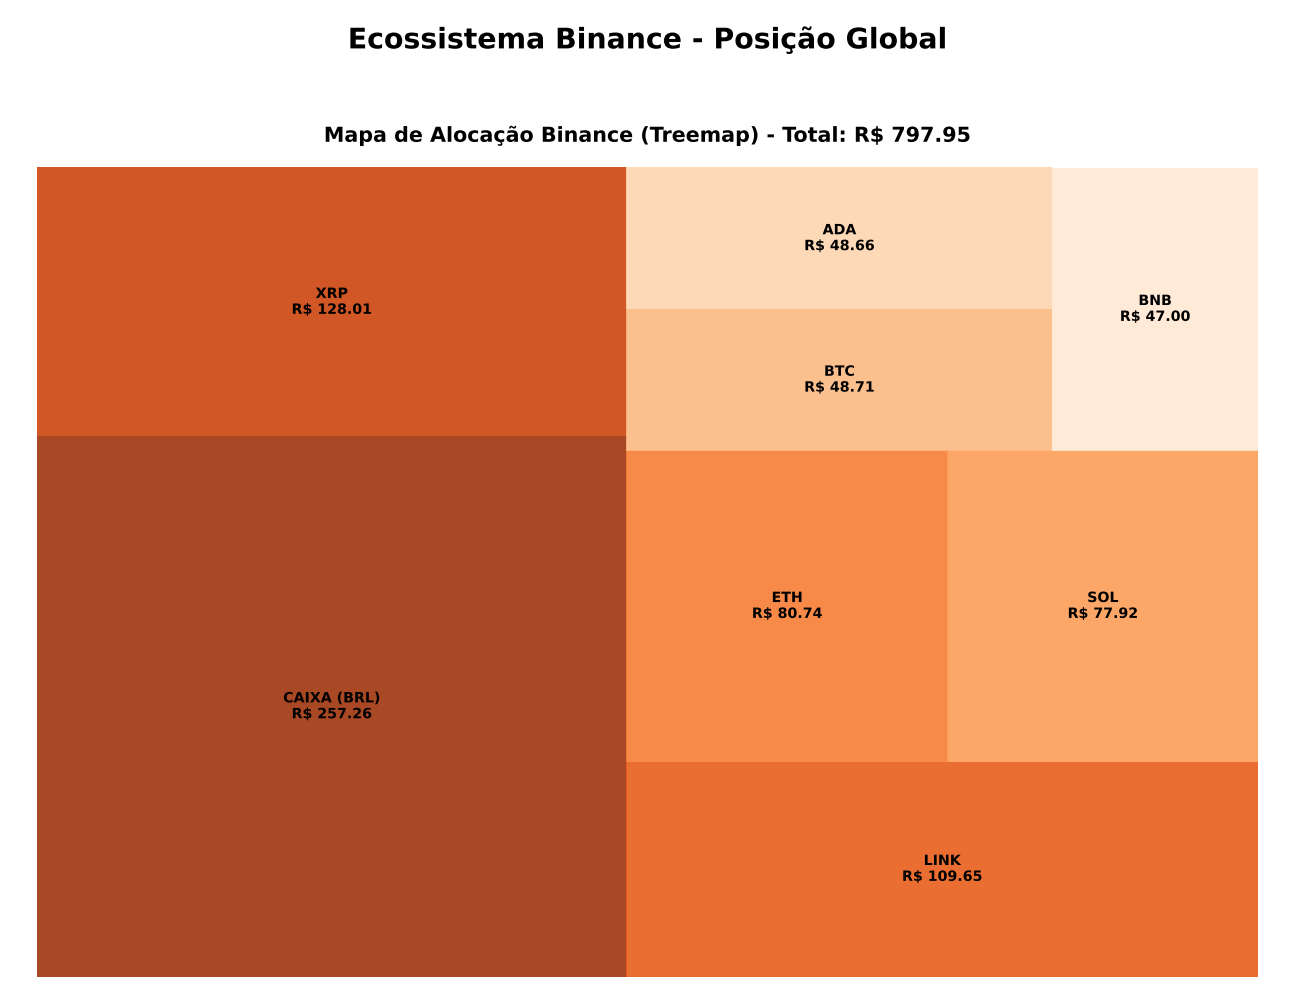
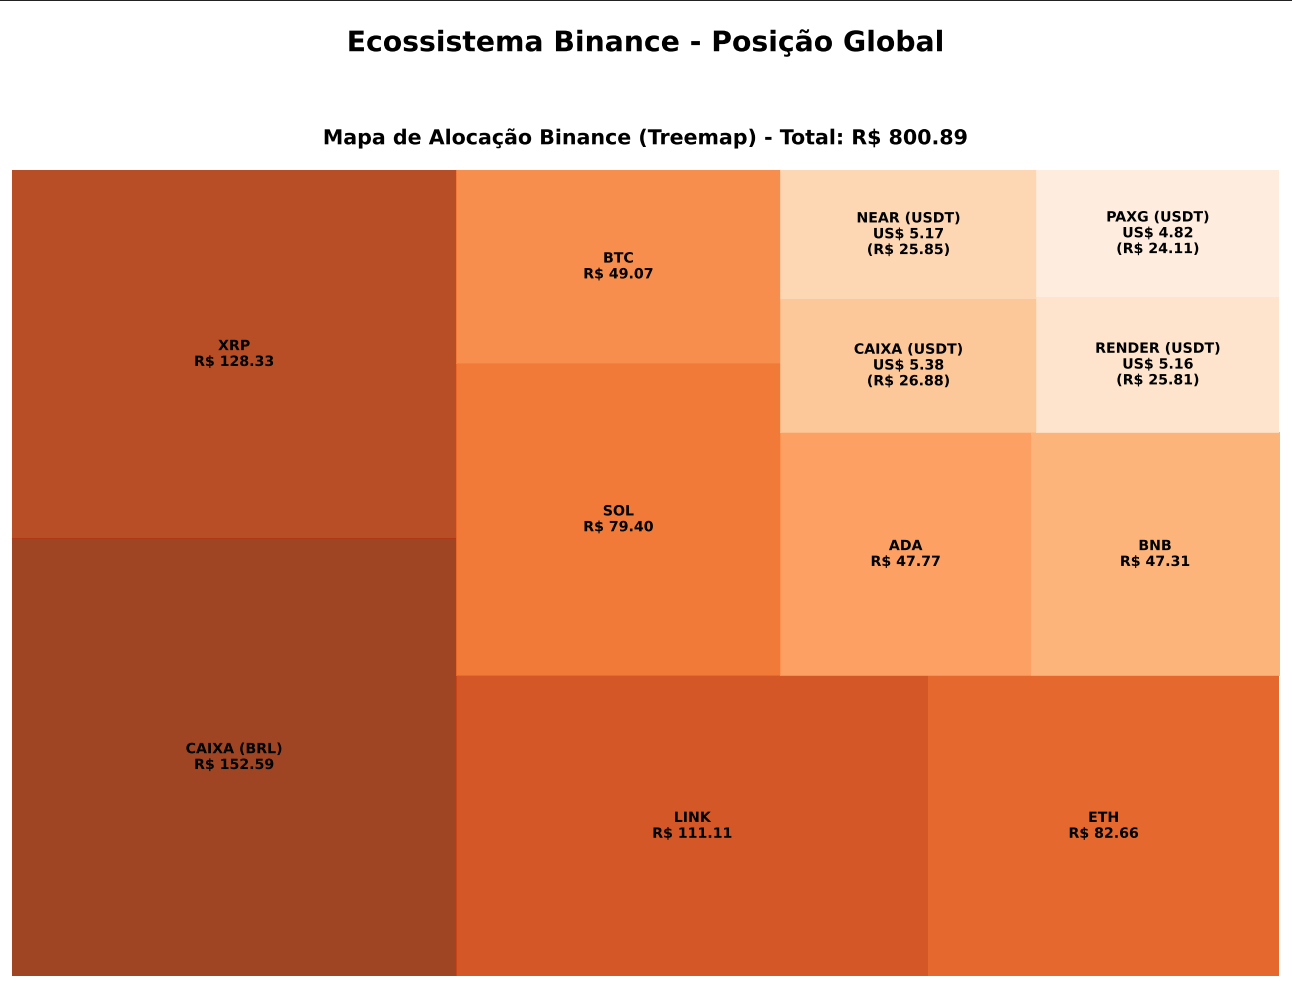
feat: adiciona treemap atualizado com saldo de caixa multi-moedas e dupla conversao

diff --git a/README.md b/README.md
@@ -26,24 +26,31 @@ O ecossistema é otimizado para capturar volatilidade de curto prazo **(Gatilhos
 
 > **Governança Ativa:** Os botões interativos permitem que o usuário ignore ou acate o "Veredito" da IA, decidindo raspar os lucros de uma operação (Vender) ou fechar a análise imediatamente.
 
+## 🔍 Gatilhos Manuais e Análise sob Demanda (Suporte USDT)
+Além do monitoramento autônomo de 15 minutos, o sistema permite invocar a Inteligência Artificial a qualquer momento via Telegram. O pipeline possui suporte nativo a pareamentos em Dólar (USDT), gerando o dossiê quantitativo/fundamentalista e permitindo a execução imediata da ordem diretamente no chat.
+
+| 1. Dossiê IA Sob Demanda (USDT) | 2. Execução Interativa de Compra |
+| :---: | :---: |
+| ![Análise NEAR](img/gatilho_dolar.jpeg) | ![Execução NEAR](img/gatilho_dolar2.jpeg) |
+
 ## 📊 Master Dashboard Institucional e Deep Dive (Automático)
 O robô mantém vigilância constante em duas frentes simultâneas:
 1. **Loop Proativo (15 min):** Varredura caçando oportunidades sensíveis de *Swing Trade* (3%).
 2. **Boletim Executivo (30 min):** O robô gera um **Relatório PDF Multi-page** autônomo, enviado via Telegram, contendo o Treemap de alocação, DRE Analítico ordenado por lucro real e o Deep Dive técnico das Top moedas.
 
-### 1. Visão Global e DRE Analítico
-Consolidação da alocação global em degradê de volume financeiro e status de posições com formatação condicional baseada no PnL Real.
+### 1. Visão Global e DRE Analítico (Exposição Cambial)
+Consolidação da alocação global suportando portfólios mistos. O **Treemap de Alocação** reflete a exposição real do usuário, isolando graficamente o **Caixa Disponível em BRL e USDT**, além de exibir a dupla conversão (US$ e R$) para ativos pareados em Tether. O DRE possui formatação condicional automática baseada no PnL Real.
 
-| Mapa de Alocação (Treemap) | DRE Dinâmico (Ordenado por Lucro) |
+| Mapa de Alocação (Multi-Moedas) | DRE Dinâmico (Ordenado por Lucro) |
 | :---: | :---: |
-| ![Treemap](img/relatorio_cripto2.png) | ![DRE](img/DRE_cripto.png) |
+| ![Treemap](img/relatorio_cripto2.png) | ![DRE Dólar](img/der_com_dolar.jpeg) |
 
 ### 2. Deep Dive Técnico (Top Performers)
 Geração de lâminas detalhadas para os ativos com melhor performance na carteira, destacando Ação de Preço, cruzamento de PM, MACD, RSI e **Regressão Linear Preditiva (30 dias)** em evidência.
 
-| Ação de Preço e Regressão Linear | Indicadores Técnicos (MACD / RSI) |
-| :---: | :---: |
-| ![Preço e Regressão](img/top_performance_1.png) | ![Indicadores](img/top_performance_2.png) |
+| Ação de Preço, Posição Atual e Regressão Linear |
+| :---: |
+| ![Gráfico Dólar](img/exemplo_dolar_grafico.jpeg) |
 
 ## 🖥 Monitoramento 360º (Docker)
 Infraestrutura conteinerizada (`PYTHONUNBUFFERED=1`) com blindagem anti-crash.
@@ -56,9 +63,12 @@ Infraestrutura conteinerizada (`PYTHONUNBUFFERED=1`) com blindagem anti-crash.
 
 ## 📈 Roadmap de Evolução (Concluído)
 
-- [x] **Comando de Consulta Rápida:** Dashboard instantâneo para cálculo de PnL (Lucro/Prejuízo) em tempo real de todos os ativos da Binance via Telegram.
+- [x] **Comando de Consulta Rápida:** Dashboard instantâneo para cálculo de PnL em tempo real via Telegram.
 - [x] **Integração Global (Master Dashboard V4.1):** Unificação dos dados com a criação de gráficos automáticos Multi-page em PDF.
-- [x] **DRE Dinâmico e Viés Preditivo:** Implementação de regressão linear para 30 dias com cone de projeção e ordenação de ativos por maior lucro líquido em Reais.
+- [x] **DRE Dinâmico e Viés Preditivo:** Implementação de regressão linear para 30 dias com cone de projeção e ordenação de ativos.
+- [x] **Exposição Cambial (Caixa Multi-Moeda):** Rastreio autônomo do saldo em carteira (BRL e USDT) integrados à visualização do Treemap de alocação.
 
 ---
+[![Acesso Rápido](https://img.shields.io/badge/Acesso_Rápido-Repositório_GitHub-181717?style=for-the-badge&logo=github)](https://github.com/BrunexJundiai/sniper-cripto-v4)
+
 **Desenvolvido por Bruno Felipe de Almeida** *Especialista em BI & Analytics (USP) | Engenheiro de Dados* [![LinkedIn](https://img.shields.io/badge/LinkedIn-0077B5?style=for-the-badge&logo=linkedin&logoColor=white)](https://www.linkedin.com/in/bruno-felipe-de-almeida/)
